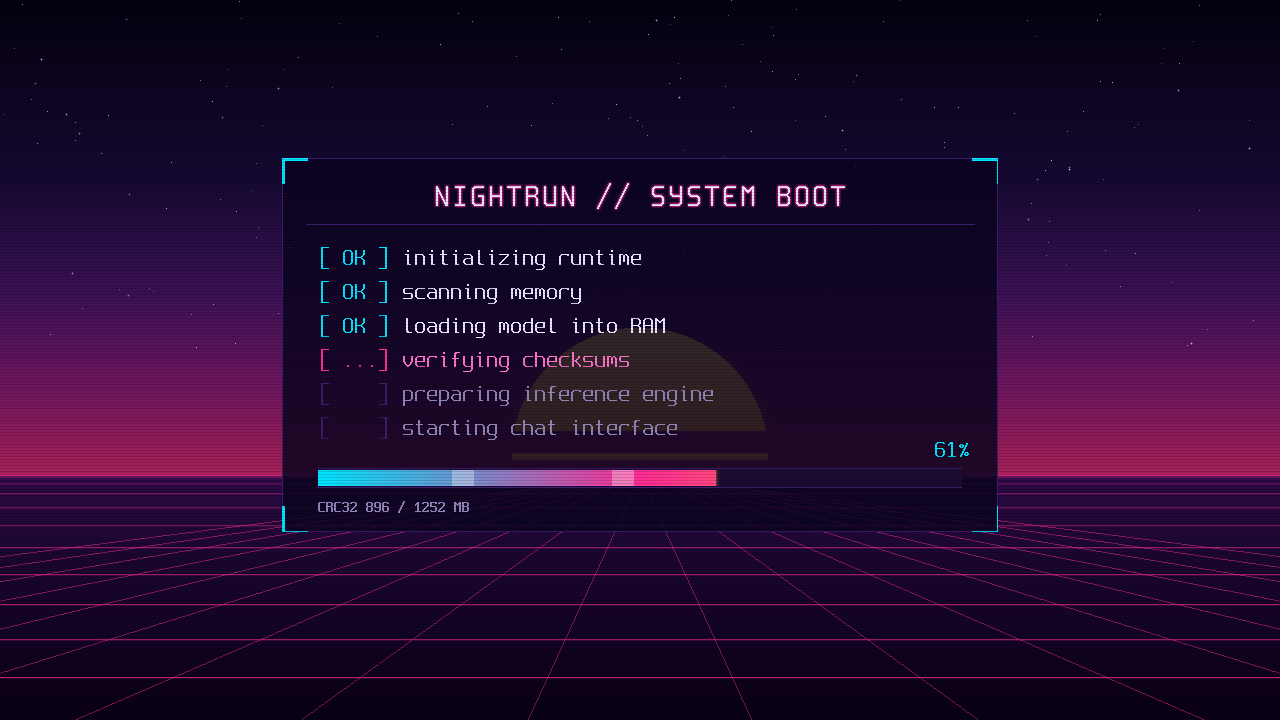
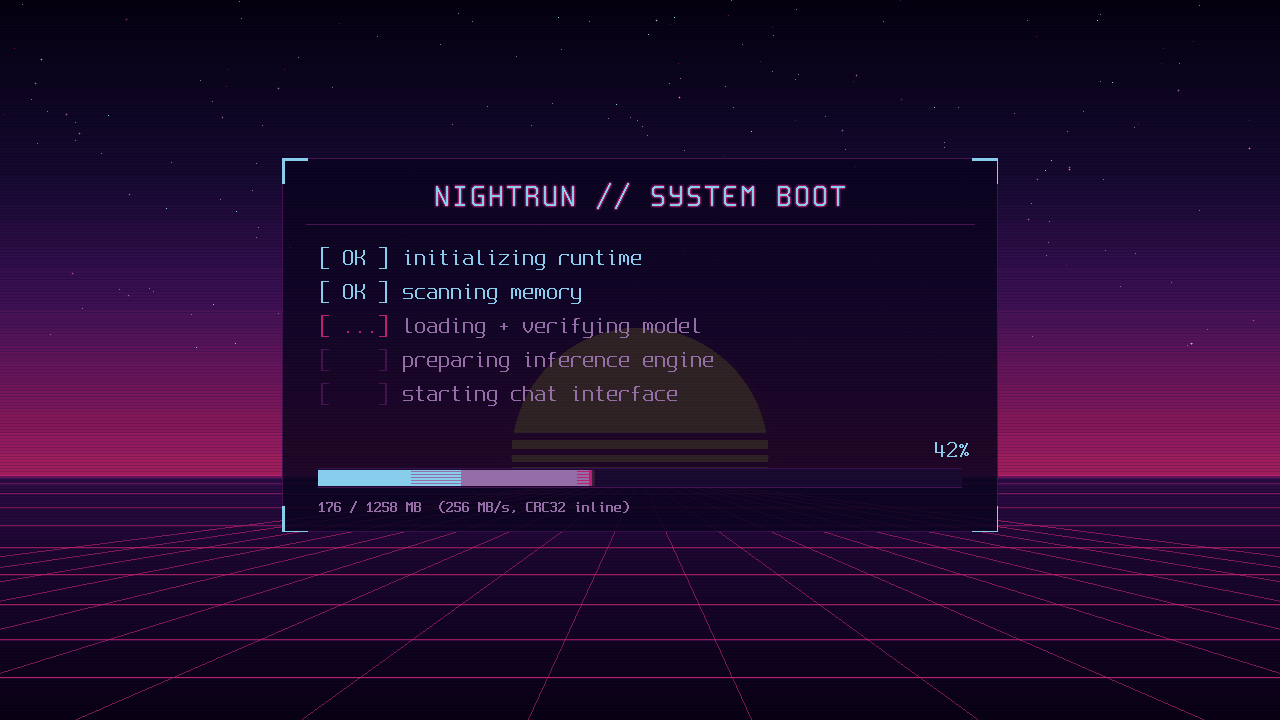
splash: complete the sun with three floating bars
The stripe schedule ended in a gap wider than its bands, so the disc's
lower edge read as a missing stripe. The mask is now an explicit segment
table walked up from the horizon: three bars shrinking toward the glow
line, then the solid disc. Splash and loading screenshots re-captured
from QEMU boots.

Claude-Session: https://claude.ai/code/session_01KN8jLgUQbmbnQqamZtt1Ur

diff --git a/crates/nr-ui/src/backdrop.rs b/crates/nr-ui/src/backdrop.rs
@@ -67,16 +67,30 @@ fn sun(surf: &mut Surface, cx: i32, horizon: i32, r: i32) {
         }
         let half = isqrt(span2 as u32) as i32;
 
-        // Stripe mask: bottom 55% of the disc, gaps grow downward.
-        let frac = ((y - top) * 1000 / (2 * r).max(1)) as u32; // 0..1000
-        if frac > 400 {
-            let t = frac - 400; // 0..~225 within the visible disc
-            let phase = t * t / 55; // quadratic -> widening bands
-            let period = 240u32;
-            let duty = 90 + t / 2; // gap portion grows toward the horizon
-            if phase % period < duty.min(200) {
-                continue;
+        // Stripe mask, walked up from the horizon: the solid disc ends in
+        // three floating bars that shrink toward the horizon, completing
+        // the classic sunset. Thicknesses are permille of the radius.
+        const SEGS: [(i32, bool); 7] = [
+            (25, true), // breathing room above the horizon line
+            (40, false), // smallest bar
+            (45, true),
+            (55, false), // middle bar
+            (52, true),
+            (75, false), // largest bar
+            (62, true), // cut between the disc and the bars; solid above
+        ];
+        let d = horizon - y; // rows above the horizon, >= 1
+        let mut acc = 0;
+        let mut in_gap = false;
+        for (perm, is_gap) in SEGS {
+            acc += (perm * r / 1000).max(2);
+            if d <= acc {
+                in_gap = is_gap;
+                break;
             }
+        }
+        if in_gap {
+            continue;
         }
 
         let c = color::gradient(theme::SUN_STOPS, ((y - top) * 1000 / (2 * r).max(1)) as u32);
